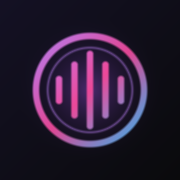
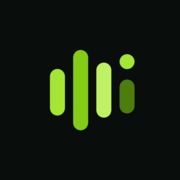
feat: update branding and add GTM
- Update application icon and PWA assets
- Refactor Google Tag Manager implementation for better performance

diff --git a/src/App.tsx b/src/App.tsx
@@ -12,7 +12,6 @@ import {
   Minimize2,
   Pause,
   Play,
-  Radio,
   RefreshCw,
   Repeat,
   Shuffle,
@@ -1112,15 +1111,60 @@ export default function App() {
           uiVisible ? 'opacity-100' : 'opacity-0 pointer-events-none'
         }`}
       >
-        <div className="flex items-center gap-3 shrink-0">
-          <div className="w-9 h-9 sm:w-10 sm:h-10 rounded-xl bg-gradient-to-tr from-purple-600 via-indigo-600 to-pink-500 flex items-center justify-center shadow-lg shadow-purple-900/40 shrink-0">
-            <Radio className="w-4 h-4 sm:w-5 sm:h-5 text-white" />
+        <div className="flex items-center gap-2.5 sm:gap-3 shrink-0">
+          <div className="w-9 h-9 sm:w-10 sm:h-10 rounded-xl bg-[#090D0B] border border-lime-400/20 flex items-center justify-center shadow-lg shadow-lime-950/30 shrink-0 overflow-hidden">
+            <svg
+              xmlns="http://www.w3.org/2000/svg"
+              viewBox="0 0 64 64"
+              fill="none"
+              aria-hidden="true"
+              className="w-full h-full"
+            >
+              <rect width="64" height="64" rx="16" fill="#090D0B" />
+              <rect x="13" y="22" width="7" height="22" rx="3.5" fill="#A3E635" />
+              <rect x="24" y="13" width="7" height="38" rx="3.5" fill="#84CC16" />
+              <rect x="35" y="19" width="7" height="26" rx="3.5" fill="#BEF264" />
+              <rect x="46" y="27" width="7" height="16" rx="3.5" fill="#4D7C0F" />
+              <circle cx="49.5" cy="18.5" r="3.5" fill="#A3E635" />
+            </svg>
           </div>
-          <div className="min-w-0">
-            <h1 className="font-bold text-base sm:text-lg tracking-wider bg-gradient-to-r from-white via-gray-200 to-purple-300 bg-clip-text text-transparent whitespace-nowrap">
-              YRitmX
+          <div className="min-w-0 flex flex-col justify-center">
+            <h1 className="flex items-center">
+              <span className="sr-only">YRitmX</span>
+              <svg
+                xmlns="http://www.w3.org/2000/svg"
+                viewBox="16 8 342 84"
+                aria-hidden="true"
+                className="h-6 sm:h-7 w-auto block"
+              >
+                <path
+                  fill="#68e524"
+                  d="M21 26h10.5L43 55.5L54.5 26H65L41.5 88H31l7-18.5L21 26z"
+                />
+                <path
+                  fill="#ffffff"
+                  d="M78 26h9.5v8.5C90.5 28.5 95.5 25 102.5 25c8.5 0 13.5 5.5 13.5 15v7h-9.5v-6c0-4.5-2.5-7-6.5-7-4.5 0-8 3-8 8.5V76H78V26z"
+                />
+                <circle fill="#ffffff" cx="148" cy="11" r="6" />
+                <path
+                  fill="#ffffff"
+                  d="M132 26h21v41h13v9h-36v-9h13V35h-11v-9z"
+                />
+                <path
+                  fill="#ffffff"
+                  d="M191 14h10v12h14v9h-14v41h-10V35h-12v-9h12V14z"
+                />
+                <path
+                  fill="#ffffff"
+                  d="M230 26h9v6.5c2.5-4.5 6.5-7.5 12-7.5 5.5 0 9.5 2.5 11.5 7.5 3-5 7.5-7.5 13-7.5 8 0 12.5 5.5 12.5 15v36h-9V41.5c0-5-2-7.5-6-7.5-4 0-6.5 3-6.5 8V76h-9V41.5c0-5-2-7.5-6-7.5-4 0-6.5 3-6.5 8V76h-9V26z"
+                />
+                <path
+                  fill="#b2ed11"
+                  d="M300 26h11.5l11.5 17.5L334.5 26H346l-17 24.5L355 88h-11.5l-20.5-30.5L310.5 76H299l18-25.5L300 26z"
+                />
+              </svg>
             </h1>
-            <p className="text-[11px] sm:text-xs text-gray-400 font-medium whitespace-nowrap [@media(max-height:540px)_and_(orientation:landscape)]:hidden sm:block">
+            <p className="text-[11px] sm:text-xs text-gray-400 font-medium whitespace-nowrap [@media(max-height:540px)_and_(orientation:landscape)]:hidden sm:block mt-0.5">
               {t.appSubtitle}
             </p>
           </div>

diff --git a/index.html b/index.html
@@ -2,6 +2,18 @@
 <html lang="ru" class="dark">
   <head>
     <meta charset="UTF-8" />
+    <!-- Google Tag Manager -->
+    <script>
+      window.dataLayer = window.dataLayer || [];
+      function gtag(){dataLayer.push(arguments);}
+      gtag('js', new Date());
+      (function(w,d,s,l,i){w[l]=w[l]||[];w[l].push({'gtm.start':
+      new Date().getTime(),event:'gtm.js'});var f=d.getElementsByTagName(s)[0],
+      j=d.createElement(s),dl=l!='dataLayer'?'&l='+l:'';j.async=true;j.src=
+      'https://www.googletagmanager.com/gtm.js?id='+i+dl;f.parentNode.insertBefore(j,f);
+      })(window,document,'script','dataLayer','GTM-5VFP8GJX');
+    </script>
+    <!-- End Google Tag Manager -->
     <meta name="viewport" content="width=device-width, initial-scale=1.0, viewport-fit=cover" />
     <meta name="theme-color" content="#0a0a0c" />
     <meta name="mobile-web-app-capable" content="yes" />
@@ -12,15 +24,6 @@
     <meta name="x5-fullscreen" content="true" />
     <meta name="browsermode" content="application" />
     <meta name="app-version" content="1.4" />
-    <!-- Google Tag Manager -->
-    <script async src="https://www.googletagmanager.com/gtm.js?id=GTM-5VFP8GJX"></script>
-    <script>
-      window.dataLayer = window.dataLayer || [];
-      window.dataLayer.push({ 'gtm.start': new Date().getTime(), event: 'gtm.js' });
-      function gtag(){dataLayer.push(arguments);}
-      gtag('js', new Date());
-    </script>
-    <!-- End Google Tag Manager -->
     <title>YRitmX — Reactive Audio Visualizer &amp; Player</title>
     <meta name="description" content="YRitmX — реактивный аудиовизуализатор и плеер с поддержкой Audius, локальных MP3 с обложками, 5-полосного эквалайзера и 8 режимов визуализации." />
     <meta property="og:title" content="YRitmX — Reactive Audio Visualizer &amp; Player" />
@@ -32,6 +35,7 @@
     <meta name="twitter:image" content="https://yritmx.pages.dev/pwa-512x512.png" />
     <link rel="canonical" href="https://yritmx.pages.dev/" />
     <link rel="icon" type="image/svg+xml" href="/icon.svg" />
+    <link rel="shortcut icon" href="/icon.svg" />
     <link rel="apple-touch-icon" href="/apple-touch-icon.png" />
     <link rel="preconnect" href="https://fonts.googleapis.com" />
     <link rel="preconnect" href="https://fonts.gstatic.com" crossorigin />
